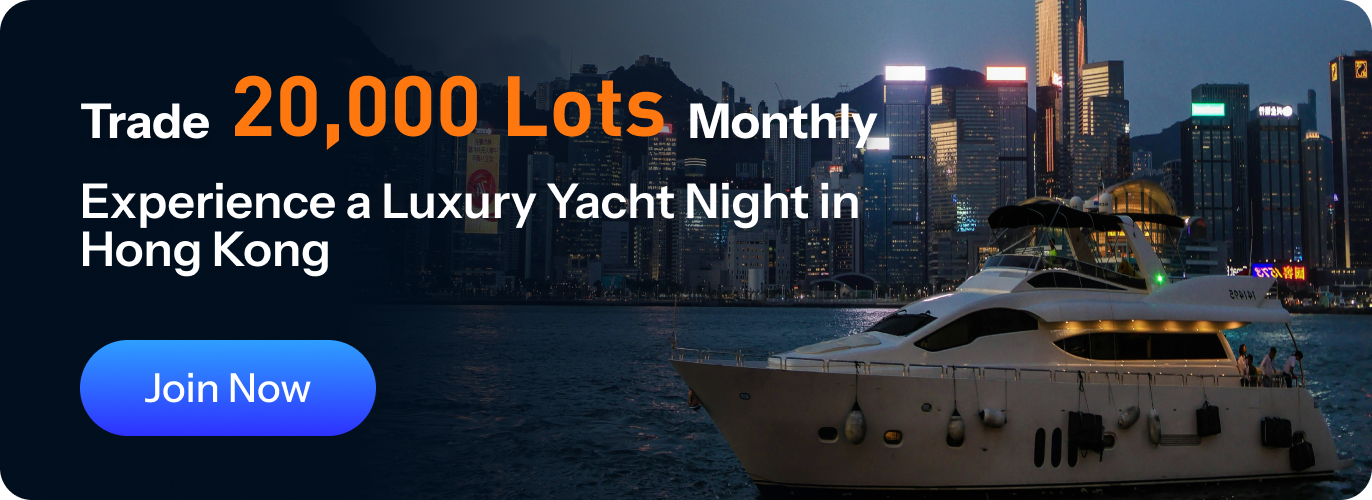
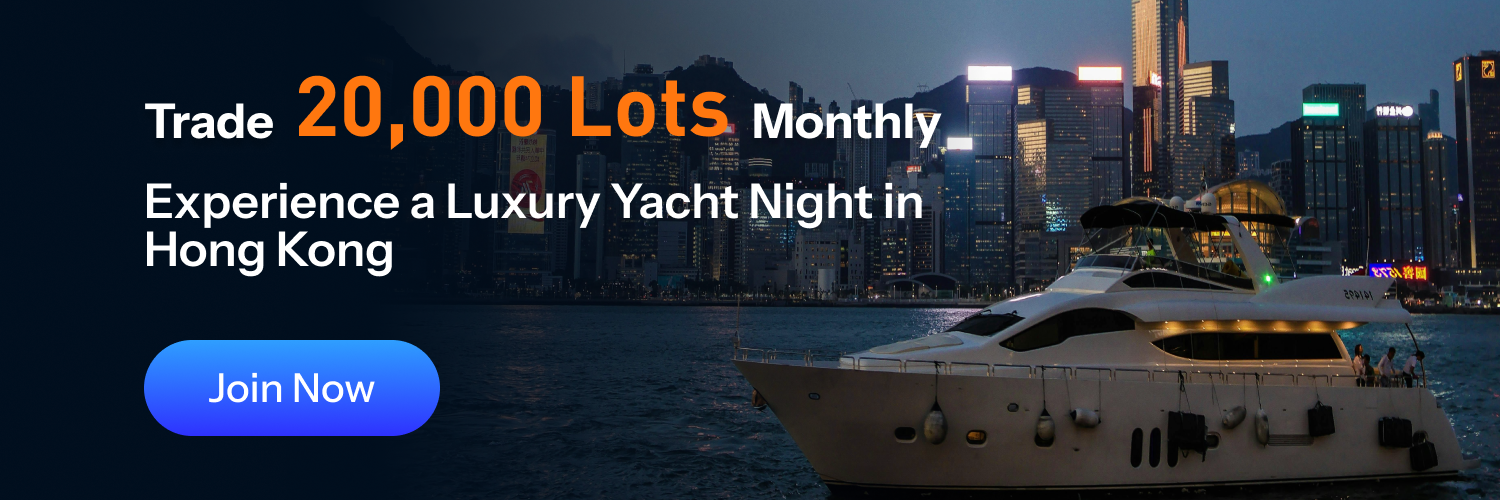
fix

diff --git a/src/components/home/Reward.tsx b/src/components/home/Reward.tsx
@@ -57,10 +57,11 @@ const Reward = () => {
             {/*        <img src={renderMobileImageUrl()} className={"w-full object-cover"} alt=""/>*/}
             {/*    </a>*/}
             {/*</Container>*/}
-            <a href="https://portal.asiafuturetrading.com/register/trader" className={"hidden lg:block"}
-               target={"_blank"}>
-                <img src={renderImageUrl()} className={"w-full object-cover"} alt=""/>
-            </a>
+            <Container className={"hidden lg:block"}>
+                <a href="https://portal.asiafuturetrading.com/register/trader" target={"_blank"}>
+                    <img src={renderImageUrl()} className={"w-full object-cover"} alt=""/>
+                </a>
+            </Container>
             <a href="https://portal.asiafuturetrading.com/register/trader" className={"lg:hidden"}
                target={"_blank"}>
                 <img src={renderMobileImageUrl()} className={"w-full object-cover"} alt=""/>
